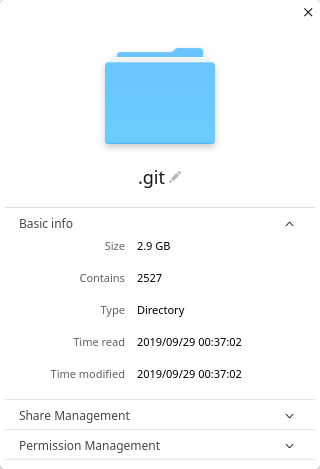
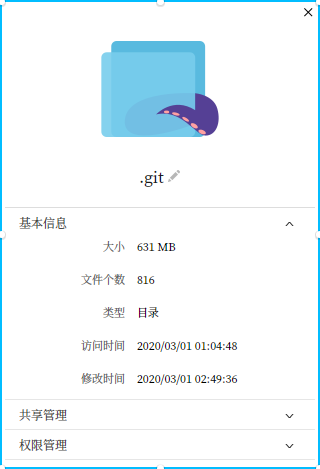
更新说明文档

diff --git a/README.md b/README.md
@@ -1,9 +1,5 @@
 # 南京大学计算机考研资料合集
 
-仓库重置中，本次会把一些不必要的资料放在网盘中（比如说错误百出的参考答案），并且PPT也会只保留最新的一份剩下的会放在网盘中需要自取，参考书目的参考答案将会以单独文件的形式制作。
-
-如果需要之前的版本可以到码云中下载：'https://gitee.com/JackeyLea/NJUCS'
-
 **本仓库资料包括：**
 ```
 845真题
@@ -51,10 +47,9 @@
   - [845考试调整说明](#845%e8%80%83%e8%af%95%e8%b0%83%e6%95%b4%e8%af%b4%e6%98%8e)
   - [复试安排](#%e5%a4%8d%e8%af%95%e5%ae%89%e6%8e%92)
   - [仓库内容](#%e4%bb%93%e5%ba%93%e5%86%85%e5%ae%b9)
-    - [0.录取信息](#0%e5%bd%95%e5%8f%96%e4%bf%a1%e6%81%af)
-    - [1.初试](#1%e5%88%9d%e8%af%95)
-    - [2.复试](#2%e5%a4%8d%e8%af%95)
-    - [3.其他资料](#3%e5%85%b6%e4%bb%96%e8%b5%84%e6%96%99)
+    - [1.录取信息](#1%e5%bd%95%e5%8f%96%e4%bf%a1%e6%81%af)
+    - [2.初试](#2%e5%88%9d%e8%af%95)
+    - [3.复试](#3%e5%a4%8d%e8%af%95)
     - [img](#img)
   - [考研科目细节](#%e8%80%83%e7%a0%94%e7%a7%91%e7%9b%ae%e7%bb%86%e8%8a%82)
     - [初试](#%e5%88%9d%e8%af%95)
@@ -137,6 +132,8 @@ https://www.zhihu.com/question/309601783
 - 一段时间之后，因为上传缓存会导致仓库的大小为实际的2倍以上，所以会在某个时间点重置仓库。将之前的提交删除，清空缓存，以保证仓库不会太大。
 
 - 如果需要重置之前的资料可以到码云下载，可以达到2M/S的速度。
+
+`https://gitee.com/JackeyLea/NJUCS`
 
 - 本仓库的参考书目PDF及其他PDF文件可以到百度网盘下载。（文件地址往下找）
 
@@ -221,16 +218,6 @@ PDF软件为 master editor of PDF
 - 离散数学习题解答与学习指导第3版.屈婉玲编
 - 845真题.pdf
 
-其他一些每年都发售的王道类图书就不上传了
-
-网盘链接到下面找，每次添加文件都要更新网盘链接太麻烦了
-
-微云网盘分享的链接总是显示失效，待处理。
-
-暂时不分享了，可能是因为版权，也有可能被人举报了，待处理。
-
-github空间没有限制，但是下载速度慢。
-
 ## 下载方法
 
 1、直接克隆
@@ -247,7 +234,7 @@ git clone https://github.com/JackeyLea/NJUCS
 
 在github界面中点击clone or download 按扭，然后点击红色的download zip就可以下载了。
 
-优点是直接，缺点是下载速度非常慢，设置会经常出错。
+优点是直接，缺点是下载速度非常慢，而且会经常出错中断下载。
 
 3、间接克隆
 
@@ -270,7 +257,7 @@ git clone https://github.com/JackeyLea/NJUCS
 ![avater](./img/gitee_clone(副本).png)
 
 ```bash
-git clone git@gitee.com/JackeyLea/NJUCS
+git clone git@gitee.com/your name/NJUCS
 ```
 
 ## 仓库大小
@@ -278,6 +265,10 @@ git clone git@gitee.com/JackeyLea/NJUCS
 这是本仓库最新的时间内所有文件的大小
 
 ![avater](./img/最新的文件大小.png)
+
+其中git文件夹大小为
+
+![git文件夹](./img/git文件夹大小.png)
 
 ## 联系方式
 
@@ -369,11 +360,11 @@ QQ：1768478912 （往事深处的少年）
 
 ## 仓库内容
 
-### 0.录取信息
+### 1.录取信息
 
 包含报录比、拟录取名单、分数线、基本分数线
 
-### 1.初试
+### 2.初试
 
 初试相关的资料（真题、PPT、期末考试）
 
@@ -389,15 +380,11 @@ QQ：1768478912 （往事深处的少年）
 
 ![avater](./img/算法与数据结构考研试题精析.png)
 
-### 2.复试
+### 3.复试
 
 复试相关资料
 
 包括复试经验、英语听力、离散数学、编译原理、上机题目、面试要求、口语资料
-
-### 3.其他资料
-
-一些资料不知道该如何分类，也不知道有什么用，就放在这里面
 
 ### img
 
@@ -601,7 +588,7 @@ http://bbs.koolearn.com/forum.php?mod=viewthread&tid=5664088&extra=&page=1
 
 创建本仓库的目的是方便资料整合，同时交流。
 
-到目前为止，全是白嫖的。
+但是到目前为止，全是白嫖的。
 
 到此为止，本仓库所有对你有价值的资料已经被你完全看完。
 
@@ -613,11 +600,15 @@ http://bbs.koolearn.com/forum.php?mod=viewthread&tid=5664088&extra=&page=1
 
 你要是想白嫖，也可以。
 
-***公众号号的内容和本文档差不多，不会出现仓库没有而公众号有的资料，资料只有github一份，网盘中只有参考书目的PDF文件。望悉知***
+仓库重置后，我把一些不必要的资料放在网盘中（比如说错误百出的参考答案），并且PPT也会只保留最新的一份剩下的会放在网盘中需要自取，参考书目的参考答案将会以单独文件的形式制作。
+
+如果你觉得资料多多益善，那么可以到网盘中下载其他的资料（一些与考研无关但是与计算机相关的书PDF，有错误的参考答案、老旧的参考书目配套PPT、一些参考书目同名的配套习题PDF等等）
+
+***公众号号的内容和本文档差不多，资料只有github一份，网盘中只有参考书目的PDF文件。望悉知***
 
 会不定期分享PDF电子书、编程教程。
 
-同时回复【网盘地址】可以得到我珍藏的所有PDF文件（实际上这些书我只看过一小部分），包括本仓库的参考书目。
+同时回复【网盘地址】可以得到我珍藏的所有PDF文件（实际上这些书我只看过一小部分），包括本仓库的部分参考书目PDF文件。
 
 因为每次找到新的书都要更新仓库文档太麻烦了。
 
